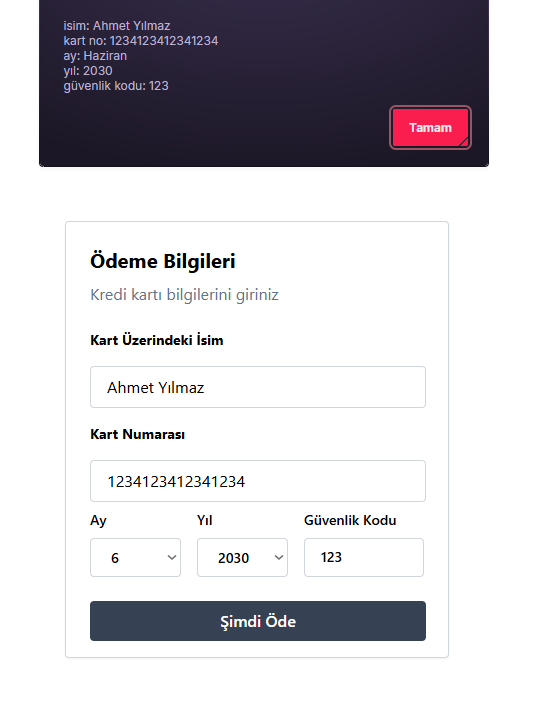
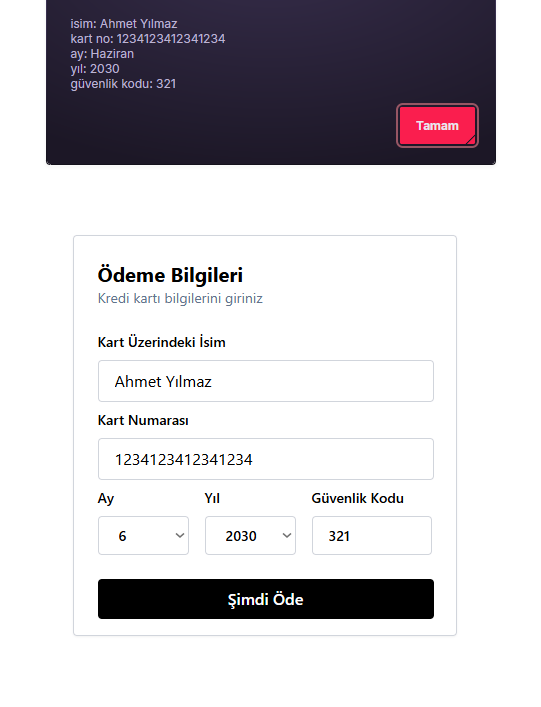
new screenshot and css fixes

diff --git a/src/App.tsx b/src/App.tsx
@@ -15,14 +15,14 @@ const App = () => {
 
   return (
     <div className='grid grid-cols-1 items-center h-screen font-sans'>
-      <div className='border  max-w-sm border-gray-300 shadow-xs p-4 m-20 rounded mx-auto'>
-        <div className='font-bold text-xl p-2'>Ödeme Bilgileri</div>
-        <div className='font-base text-base text-slate-500 px-2 mb-4'>Kredi kartı bilgilerini giriniz</div>
-        <div className='font-bold text-sm p-2'>Kart Üzerindeki İsim</div>
+      <div className='border  max-w-sm border-gray-300 shadow-xs px-4 py-4 m-20 rounded mx-auto'>
+        <div className='font-bold text-xl px-2 mt-2'>Ödeme Bilgileri</div>
+        <div className='font-base text-sm text-slate-500 px-2 mb-6'>Kredi kartı bilgilerini giriniz</div>
+        <div className='font-semibold text-sm px-2'>Kart Üzerindeki İsim</div>
         <div>
           <input className='border w-84 border-gray-300 p-2 px-4 m-2 rounded' type='text' value={metin} placeholder='Ahmet Yılmaz' onChange={(e) =>  setMetin(e.target.value)} />
         </div>
-        <div className='font-bold text-sm p-2'>Kart Numarası</div>
+        <div className='font-semibold text-sm px-2'>Kart Numarası</div>
         <div>
           <input className='border  w-84 border-gray-300 p-2 px-4 m-2 rounded' type='text' value={kartNo} placeholder='0000 0000 0000 0000' onChange={(e) => setKartNo(e.target.value)} />
         </div>
@@ -69,7 +69,7 @@ const App = () => {
           </label>
 
         </div>
-        <button onClick={handleClick} className="bg-black hover:bg-gray-700 w-84 text-white font-semibold py-2 px-4 rounded mx-2 mt-4">Şimdi Öde</button>
+        <button onClick={handleClick} className="bg-black cursor-pointer w-84 text-white font-semibold py-2 px-4 rounded mx-2 mt-4">Şimdi Öde</button>
 
       </div>
 
